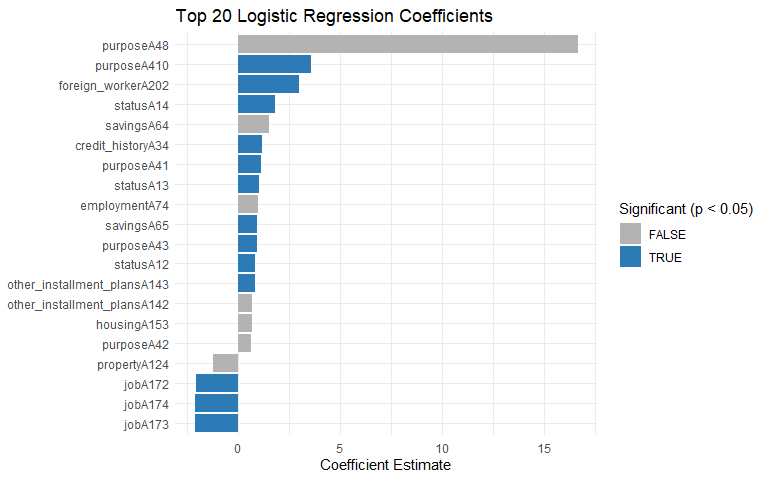
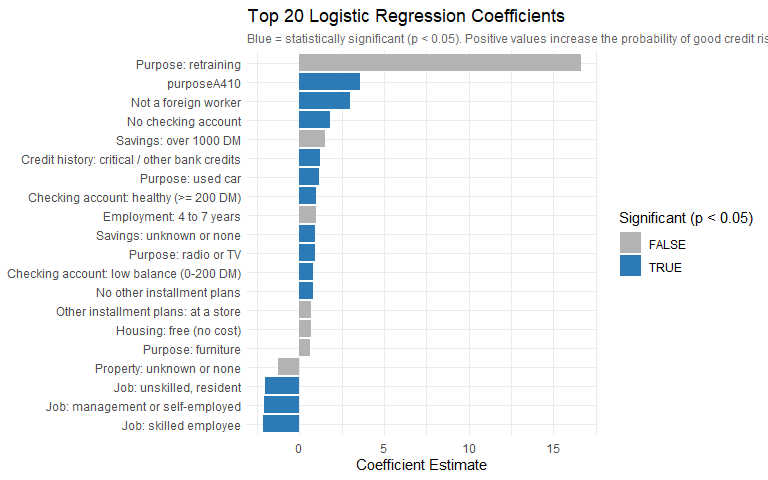
Replace coded variable names with readable labels in coefficient chart

diff --git a/analysis.md b/analysis.md
@@ -173,6 +173,63 @@ summary(model)
 ``` r
 library(ggplot2)
 
+# Mapping from R's auto-generated dummy variable names to readable labels
+# These codes come from the German Credit Data dictionary
+label_map <- c(
+  "statusA11"                    = "Checking account: overdrawn (< 0 DM)",
+  "statusA12"                    = "Checking account: low balance (0-200 DM)",
+  "statusA13"                    = "Checking account: healthy (>= 200 DM)",
+  "statusA14"                    = "No checking account",
+  "credit_historyA30"            = "Credit history: no credits taken",
+  "credit_historyA31"            = "Credit history: all credits paid back",
+  "credit_historyA32"            = "Credit history: existing credits paid back",
+  "credit_historyA33"            = "Credit history: past payment delays",
+  "credit_historyA34"            = "Credit history: critical / other bank credits",
+  "purposeA40"                   = "Purpose: new car",
+  "purposeA41"                   = "Purpose: used car",
+  "purposeA42"                   = "Purpose: furniture",
+  "purposeA43"                   = "Purpose: radio or TV",
+  "purposeA46"                   = "Purpose: education",
+  "purposeA48"                   = "Purpose: retraining",
+  "purposeA49"                   = "Purpose: business",
+  "savingsA61"                   = "Savings: under 100 DM",
+  "savingsA62"                   = "Savings: 100-500 DM",
+  "savingsA63"                   = "Savings: 500-1000 DM",
+  "savingsA64"                   = "Savings: over 1000 DM",
+  "savingsA65"                   = "Savings: unknown or none",
+  "employmentA71"                = "Employment: unemployed",
+  "employmentA72"                = "Employment: less than 1 year",
+  "employmentA73"                = "Employment: 1 to 4 years",
+  "employmentA74"                = "Employment: 4 to 7 years",
+  "employmentA75"                = "Employment: 7 or more years",
+  "other_debtorsA102"            = "Other debtors: co-applicant",
+  "other_debtorsA103"            = "Other debtors: guarantor",
+  "propertyA121"                 = "Property: real estate",
+  "propertyA122"                 = "Property: life insurance / savings agreement",
+  "propertyA123"                 = "Property: car or other asset",
+  "propertyA124"                 = "Property: unknown or none",
+  "other_installment_plansA141"  = "Other installment plans: at a bank",
+  "other_installment_plansA142"  = "Other installment plans: at a store",
+  "other_installment_plansA143"  = "No other installment plans",
+  "housingA151"                  = "Housing: renting",
+  "housingA152"                  = "Housing: owns home",
+  "housingA153"                  = "Housing: free (no cost)",
+  "jobA171"                      = "Job: unskilled, non-resident",
+  "jobA172"                      = "Job: unskilled, resident",
+  "jobA173"                      = "Job: skilled employee",
+  "jobA174"                      = "Job: management or self-employed",
+  "telephoneA192"                = "Has registered telephone",
+  "foreign_workerA202"           = "Not a foreign worker",
+  "genderMale"                   = "Gender: male",
+  "duration"                     = "Loan duration (months)",
+  "amount"                       = "Loan amount (DM)",
+  "installment_rate"             = "Installment rate (% of income)",
+  "residence"                    = "Years at current residence",
+  "age"                          = "Age (years)",
+  "existing_credits"             = "Number of existing credits at this bank",
+  "num_people_liable"            = "Number of people financially dependent on applicant"
+)
+
 coef_df <- as.data.frame(summary(model)$coefficients)
 coef_df$Variable <- rownames(coef_df)
 coef_df <- coef_df[coef_df$Variable != "(Intercept)", ]
@@ -180,14 +237,21 @@ coef_df$Significant <- coef_df$`Pr(>|z|)` < 0.05
 coef_df <- coef_df[order(abs(coef_df$Estimate), decreasing = TRUE), ]
 coef_df <- head(coef_df, 20)
 
-ggplot(coef_df, aes(x = reorder(Variable, Estimate), y = Estimate, fill = Significant)) +
+# Apply readable labels where available, keep original name if not in map
+coef_df$Label <- ifelse(coef_df$Variable %in% names(label_map),
+                        label_map[coef_df$Variable],
+                        coef_df$Variable)
+
+ggplot(coef_df, aes(x = reorder(Label, Estimate), y = Estimate, fill = Significant)) +
   geom_bar(stat = "identity") +
   coord_flip() +
   scale_fill_manual(values = c("FALSE" = "grey70", "TRUE" = "#2c7bb6")) +
   labs(title = "Top 20 Logistic Regression Coefficients",
+       subtitle = "Blue = statistically significant (p < 0.05). Positive values increase the probability of good credit risk.",
        x = NULL, y = "Coefficient Estimate",
        fill = "Significant (p < 0.05)") +
-  theme_minimal()
+  theme_minimal() +
+  theme(plot.subtitle = element_text(size = 9, color = "grey40"))
 ```
 
 ![](analysis_files/figure-gfm/coef-plot-1.png)<!-- -->
